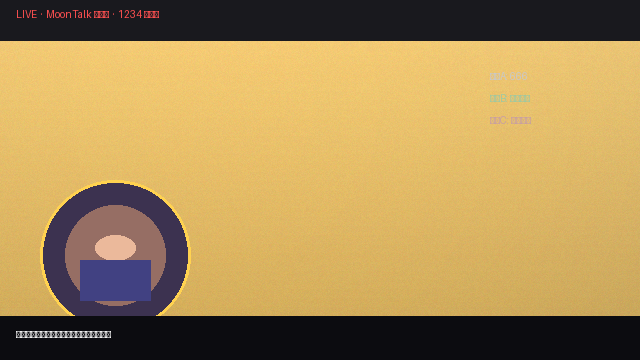
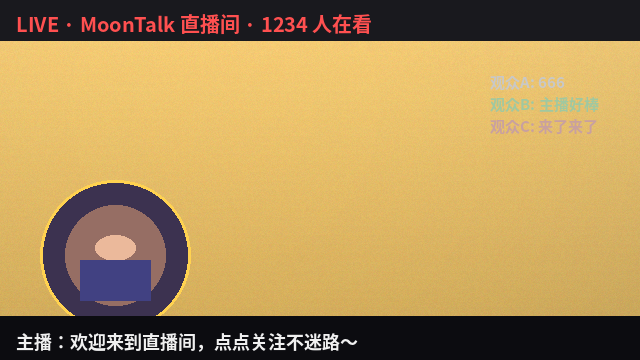
fix: E2E 素材中文方框——PIL 默认字体无中文字形；水印可读性提升
- scripts/gen_live_frame.py（新）：素材生成脚本入库（Noto Sans CJK 渲染中文，可复现）
- assets/live_frame.png：中文（标题/弹幕/字幕）正常渲染，不再出现方框
- cmd/e2e: 水印不透明度 0.5→0.75、字号 2→3（32px→48px）、y 276→260，
  '直播 LIVE UID-00421' 点阵水印更清晰醒目
- docs/demo/e2e_*.png|jpg 重新生成；E2E 链路 PASS 不变

diff --git a/scripts/gen_live_frame.py b/scripts/gen_live_frame.py
@@ -1,0 +1,65 @@
+#!/usr/bin/env python3
+"""
+生成 E2E 演示素材：模拟直播画面（assets/live_frame.png）。
+
+用法：python3 scripts/gen_live_frame.py [output_path]
+默认输出 assets/live_frame.png（640×360）。
+
+注意：中文字符必须用支持 CJK 的字体渲染（PIL 默认位图字体无中文字形，
+会渲染为方框）；本脚本使用系统 Noto Sans CJK。
+"""
+import sys
+import random
+from PIL import Image, ImageDraw, ImageFont
+
+W, H = 640, 360
+FONT_PATH = "/usr/share/fonts/opentype/noto/NotoSansCJK-Bold.ttc"
+
+def main():
+    out = sys.argv[1] if len(sys.argv) > 1 else "assets/live_frame.png"
+    random.seed(2026)
+
+    img = Image.new("RGB", (W, H))
+    px = img.load()
+    # 直播间背景：暖色打光（较亮），模拟真实直播照明
+    for y in range(H):
+        for x in range(W):
+            base = int(150 - 40 * (y / H))  # 上亮下稍暗
+            spot = max(0, 200 - int(((x - W * 0.35) ** 2 + (y - H * 0.3) ** 2) / 8000))
+            r = min(255, base + spot // 2 + random.randint(-5, 5))
+            g = min(255, int(base * 0.95) + spot // 3 + random.randint(-5, 5))
+            b = min(255, int(base * 0.8) + random.randint(-5, 5))
+            px[x, y] = (max(0, r), max(0, g), max(0, b))
+
+    d = ImageDraw.Draw(img)
+    font_title = ImageFont.truetype(FONT_PATH, 20)
+    font_chat = ImageFont.truetype(FONT_PATH, 15)
+    font_sub = ImageFont.truetype(FONT_PATH, 18)
+
+    # 主播头像框（左下，深色区域占比小）
+    d.ellipse([40, 180, 190, 330], fill=(60, 50, 80), outline=(255, 210, 80), width=3)
+    d.ellipse([65, 205, 165, 305], fill=(150, 110, 100))
+    d.ellipse([95, 235, 135, 260], fill=(235, 185, 155))
+    d.rectangle([80, 260, 150, 300], fill=(65, 65, 130))
+
+    # 顶部标题条（平台 + 直播间名）
+    d.rectangle([0, 0, W, 40], fill=(25, 25, 30))
+    d.text((16, 8), "LIVE · MoonTalk 直播间 · 1234 人在看", font=font_title, fill=(255, 80, 80))
+
+    # 底部字幕条
+    d.rectangle([0, H - 44, W, H], fill=(12, 12, 16))
+    d.text((16, H - 32), "主播：欢迎来到直播间，点点关注不迷路～", font=font_sub, fill=(240, 240, 240))
+
+    # 聊天栏提示（右侧）
+    for i, (t, c) in enumerate([
+        ("观众A: 666", (200, 200, 200)),
+        ("观众B: 主播好棒", (160, 200, 160)),
+        ("观众C: 来了来了", (200, 160, 160)),
+    ]):
+        d.text((W - 150, 70 + i * 22), t, font=font_chat, fill=c)
+
+    img.save(out)
+    print(f"saved {out} ({img.size[0]}x{img.size[1]})")
+
+if __name__ == "__main__":
+    main()
